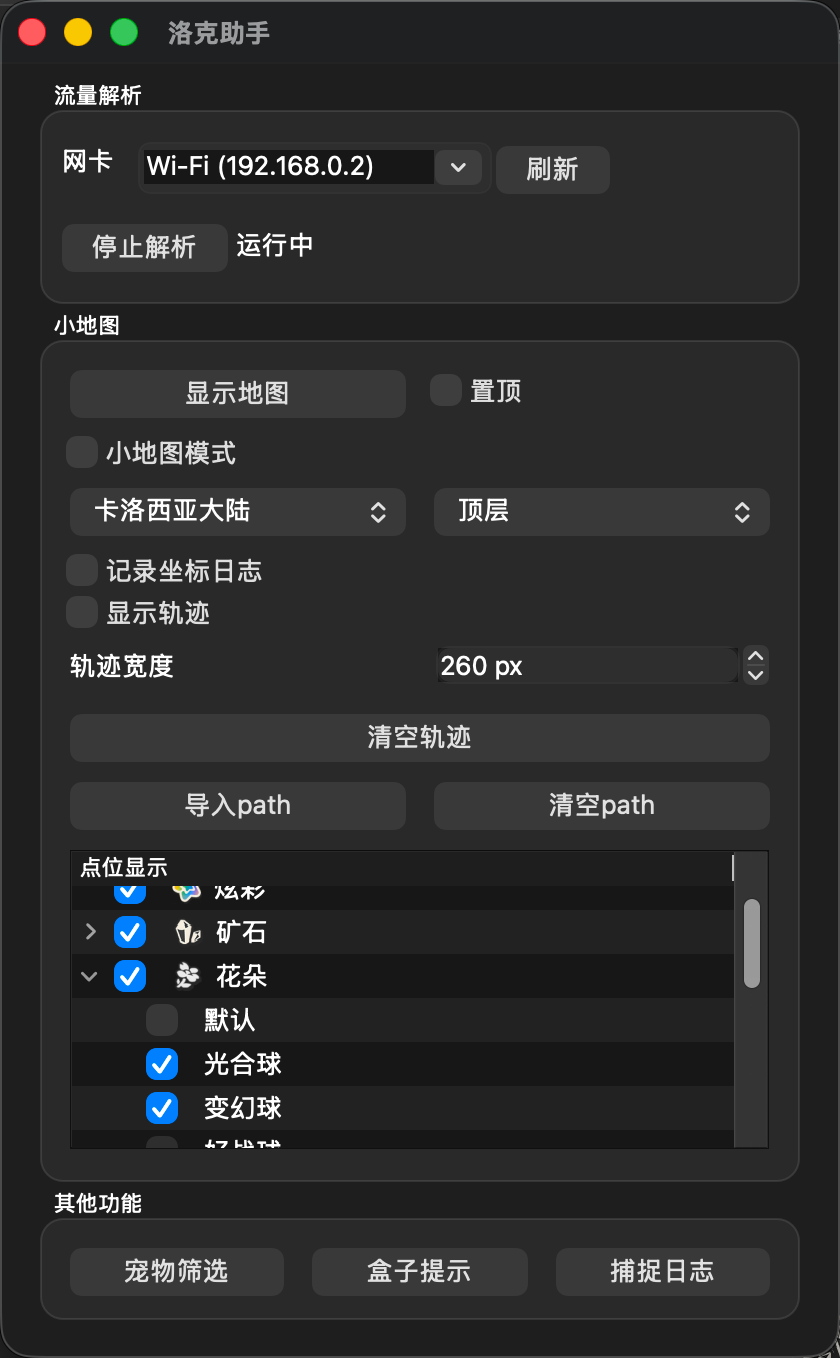
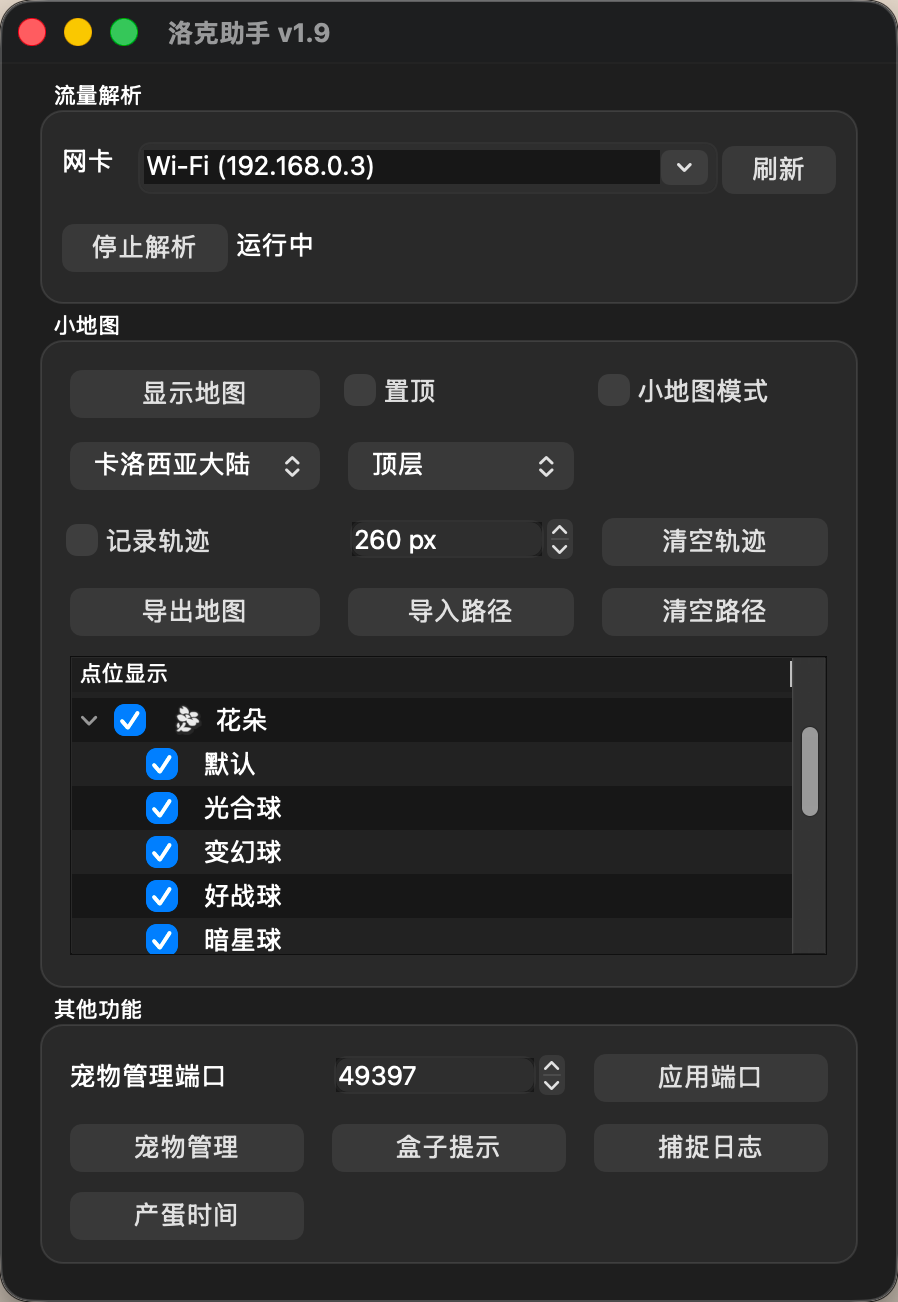
Update README.md

diff --git a/README.md b/README.md
@@ -18,56 +18,53 @@
 
 ## 功能介绍
 
-本工具基于流量解析实现，不读游戏内存，不修改任何内容。
+本工具基于流量解析实现，不读游戏内存，不修改任何内容，可“旁路部署”避免被检测。后续不会做PVP相关、影响游戏平衡性的功能
 
-<details>
-  <summary>主界面</summary>
+小地图、盒子提示、捕捉日志窗口，点击标题栏的`悬浮`按钮可开启鼠标穿透模式，防止卡鼠标
 
-  默认解析默认路由所在的网卡，如果网卡错误，可停止解析后选择正确的网卡再开启。
+### 主界面
 
-  开启 `小地图模式` 会隐藏小地图的顶部工具栏。
+<img src="./screenshots/img1.png" alt="主界面" width="400">
 
-  开启 `显示轨迹` 后，会将角色移动路径以半透明遮罩的形式叠加在地图上方，可以清楚的看出哪些地方走过，哪些地方没走过。
-  可以动态调整轨迹宽度，260px 和资源刷新的距离基本一致
+默认解析默认路由所在的网卡，如果网卡错误，可停止解析后选择正确的网卡再开启。
 
-  `导入path` 可以导入一个 SVG 文件，将SVG中的Path叠显示到地图上，角色可跟随设定的路径移动，
-  在导入path后，角色移动过程中控制台会输出建议转动角度，有能力的可以自己编写脚本读取控制台输出结果，控制鼠标移动实现自动跑图找炫彩。
-  目前没有计划放出相关脚本和对应硬件外设实现方法。
+开启 `小地图模式` 会隐藏小地图的顶部工具栏。
 
-  点位显示中，对花朵进行了分类，可以直接根据想要合成的球来控制是否显示。点位可以自己添加，也可以跑一遍地图，自动识别并标记附近的资源。
+开启 `记录轨迹` 后，会将角色移动路径以半透明遮罩的形式叠加在地图上方，可以清楚的看出哪些地方走过，哪些地方没走过。
+可以动态调整轨迹宽度，260px 和资源刷新的距离基本一致
 
-  <img src="./screenshots/img1.png" alt="主界面" width="400">
+`导入路径` 可以导入一个 SVG 文件，将SVG中的path、polygon路径叠加到地图上，方便进行跟跑，
+在导入路径后，角色移动过程中控制台会输出建议转动角度，有能力的可以自己编写脚本读取控制台输出结果，控制鼠标移动实现自动跑图找炫彩。
+目前没有计划放出相关脚本和对应硬件外设实现方法。
 
-</details>
+点位显示中，对花朵进行了分类，可以直接根据想要合成的球来控制是否显示。点位可以自己添加，也可以跑一遍地图，自动识别并标记附近的资源。
 
-<details>
-  <summary>小地图</summary>
-  开启 `跟踪角色` 后，游戏中角色移动时会保持角色在地图中间。
+### 小地图
 
-  开启 `标点模式` 后，点击地图可手动标记点位。勾选 `临时标记` 是，手动标记的点位不会持久化，重启工具消失。
+开启 `跟踪角色` 后，游戏中角色移动时会保持角色在地图中间。
 
-  自动识别的附近宝箱数据是临时标记，重启消失，矿石和花朵标记是永久标记，下次开启时还会显示。按住Shift拖动可以框选，批量删除
+开启 `标点模式` 后，点击地图可手动标记点位。勾选 `临时标记` 时，手动标记的点位不会持久化，重启工具后消失。
 
-  <img src="./screenshots/img2.png" alt="主界面" width="600">
+自动识别的附近宝箱数据是临时标记，重启消失，矿石和花朵标记是永久标记，下次开启时还会显示。按住Shift拖动可以框选，批量删除
 
-  以下是导入path、开启显示轨迹后的效果。旋转建议：正向右，负向左
+<img src="./screenshots/img2.png" alt="主界面" width="600">
 
-  <img src="./screenshots/img4.png" alt="主界面" width="600">
+以下是导入path、开启显示轨迹后的效果。旋转建议：正向右，负向左
 
-</details>
+<img src="./screenshots/img4.png" alt="主界面" width="600">
 
-<details>
-  <summary>宠物筛选</summary>
+### 宠物管理
 
-  支持通过 自定义名称、精灵名称、进化链、等级、声音、体重、性别、系别、性格、血脉、蛋组、咕噜球、天分、技能、特长、佩戴的奖牌 进行筛选
+#### 宠物筛选
 
-  <img src="./screenshots/img3.png" alt="主界面" width="600">
+支持通过 自定义名称、精灵名称、进化链、等级、声音、体重、性别、系别、性格、血脉、蛋组、咕噜球、天分、技能、特长、佩戴的奖牌 进行筛选
 
-</details>
+<img src="./screenshots/p1.png" alt="主界面" width="600">
 
-<details>
-  <summary>盒子显示、捕捉日志</summary>
+#### 孵蛋覆盖
 
-  <img src="./screenshots/img5.png" alt="主界面" width="600">
+<img src="./screenshots/p2.png" alt="主界面" width="600">
 
-</details>
+### 其他功能
+
+<img src="./screenshots/img6.png" alt="主界面" width="600">